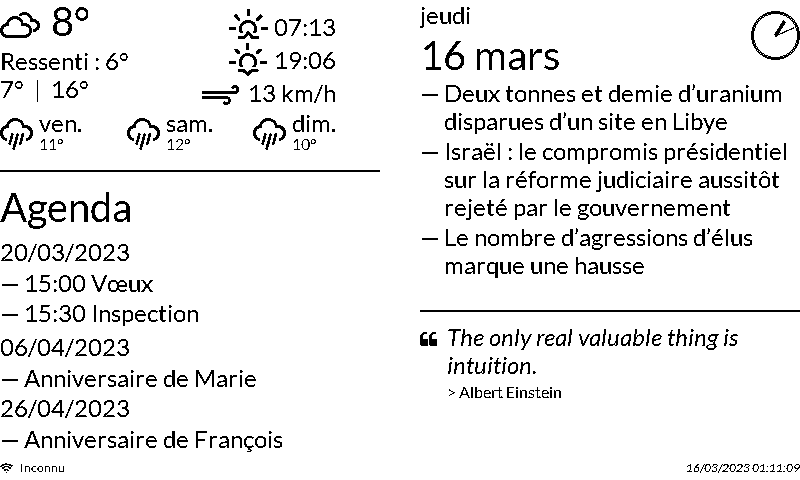
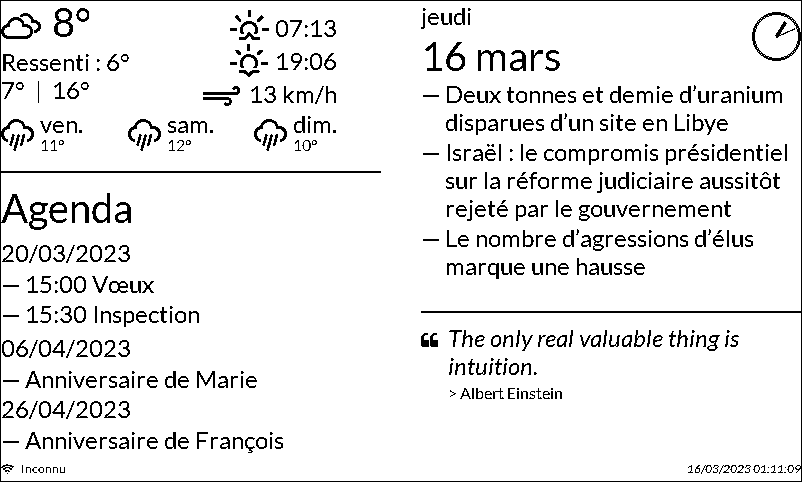
Various improvements for the README.

diff --git a/README.md b/README.md
@@ -3,7 +3,7 @@
 Raspink is a little utility that allows to display various info
 on an eInk reader connected to a Raspberry Pi.
 
-<img src="https://github.com/Skyost/Raspink/raw/master/screenshot.png" width="30%" border="1"> <img src="https://github.com/Skyost/Raspink/raw/master/preview.gif" width="30%">
+<img src="https://github.com/Skyost/Raspink/raw/master/screenshot.png" width="40%"> <img src="https://github.com/Skyost/Raspink/raw/master/preview.gif" width="40%">
 
 I've been using it for my personal needs since the very start of 2022, and I've decided to share it.
 As it is a personal utility, you may have to [customize it](#Customization) in order to suit your needs.
